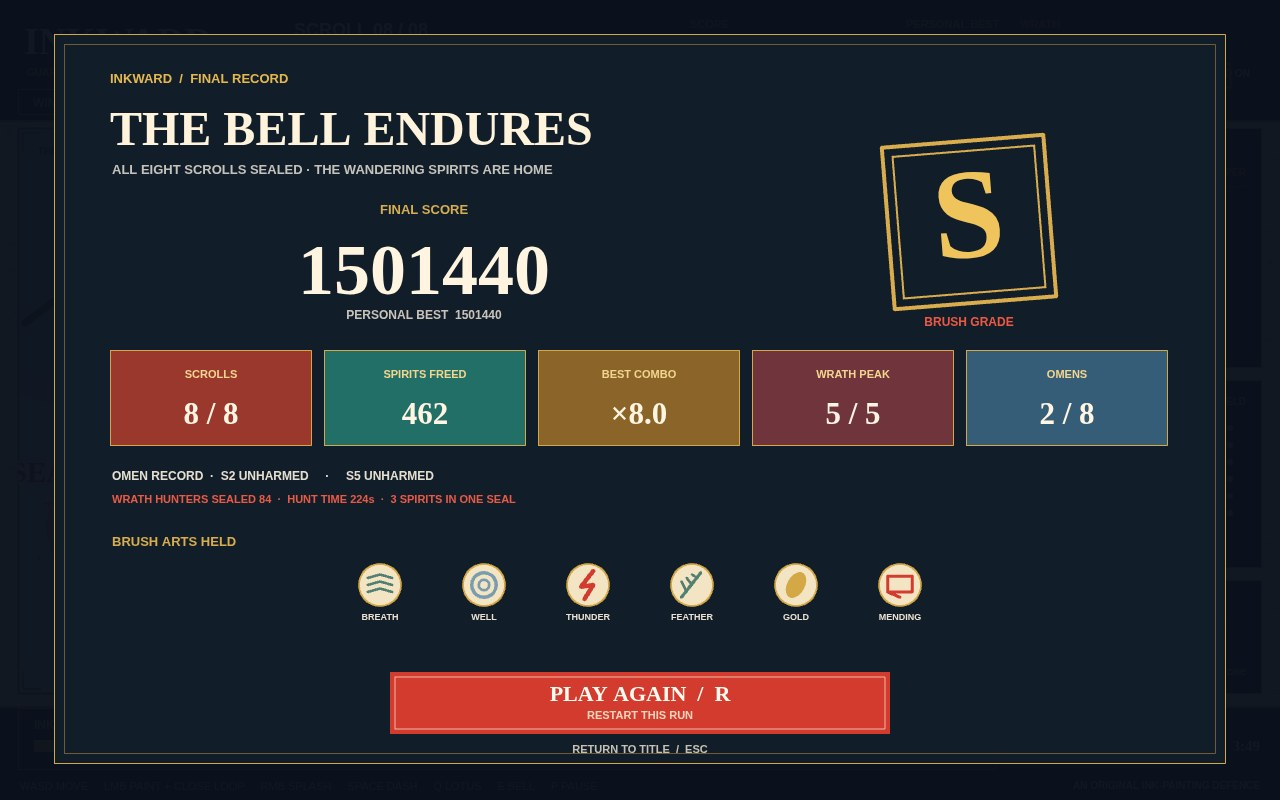
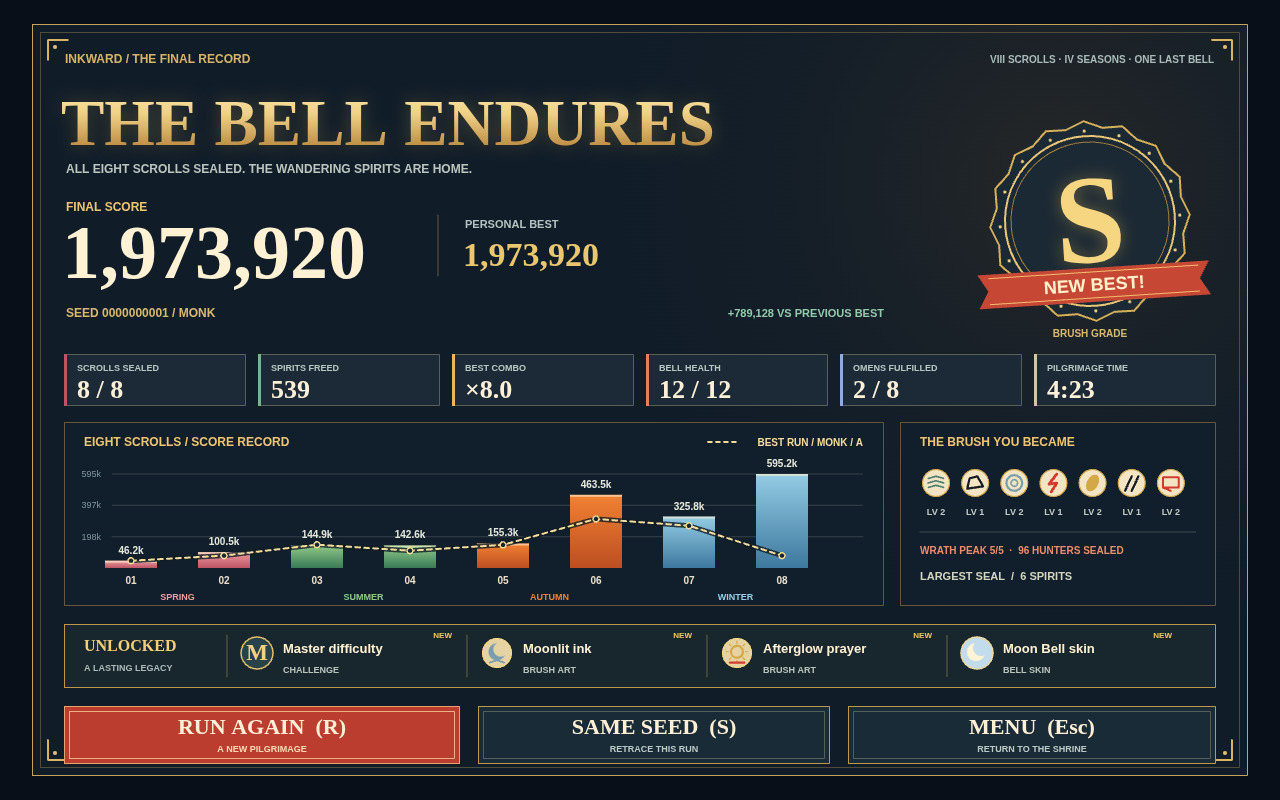
Add cinematic WebGL bloom and grading with exact 2D fallback

diff --git a/game/src/render/post/index.js b/game/src/render/post/index.js
@@ -1,0 +1,122 @@
+import { POST } from './config.js';
+import { VERTEX, EXTRACT, BLUR, COMPOSITE } from './shaders.js';
+import { getScroll } from '../../world/scrolls.js';
+
+// The original canvas stays visible and owns input. The display only covers it
+// after a successful frame, so every failure immediately reveals the 2D path.
+export function createPost(sourceCanvas) {
+  const canvas = document.createElement('canvas');
+  canvas.id = 'cinematic'; canvas.width = sourceCanvas.width; canvas.height = sourceCanvas.height;
+  canvas.setAttribute('aria-hidden', 'true'); canvas.style.display = 'none';
+  sourceCanvas.after(canvas);
+  let gl, resources, available = false, enabled = true, frames = 0;
+  const textures = [], buffers = [], programs = [], shaders = [];
+  const reveal2D = () => {
+    canvas.style.display = 'none';
+    document.documentElement.dataset.renderer = '2d';
+  };
+  function dispose() {
+    if (gl && !gl.isContextLost()) {
+      for (const t of textures) gl.deleteTexture(t);
+      for (const b of buffers) gl.deleteFramebuffer(b);
+      for (const p of programs) gl.deleteProgram(p);
+      for (const s of shaders) gl.deleteShader(s);
+    }
+    // Lost-context handles are invalid after restoration; never delete them
+    // against the restored context, where that would poison initialization.
+    textures.length = buffers.length = programs.length = shaders.length = 0;
+    resources = null; available = false; reveal2D();
+  }
+  function program(fragment) {
+    const p = gl.createProgram(); programs.push(p);
+    for (const [type, code] of [[gl.VERTEX_SHADER, VERTEX], [gl.FRAGMENT_SHADER, fragment]]) {
+      const s = gl.createShader(type); shaders.push(s);
+      gl.shaderSource(s, code); gl.compileShader(s);
+      if (!gl.getShaderParameter(s, gl.COMPILE_STATUS)) throw new Error('Post shader unavailable');
+      gl.attachShader(p, s);
+    }
+    gl.linkProgram(p);
+    if (!gl.getProgramParameter(p, gl.LINK_STATUS)) throw new Error('Post program unavailable');
+    const uniforms = {};
+    for (let i = 0; i < gl.getProgramParameter(p, gl.ACTIVE_UNIFORMS); i++) {
+      const name = gl.getActiveUniform(p, i).name;
+      uniforms[name] = gl.getUniformLocation(p, name);
+    }
+    return { p, uniforms };
+  }
+  function texture(width, height) {
+    const t = gl.createTexture(); textures.push(t); gl.bindTexture(gl.TEXTURE_2D, t);
+    gl.texParameteri(gl.TEXTURE_2D, gl.TEXTURE_MIN_FILTER, gl.LINEAR);
+    gl.texParameteri(gl.TEXTURE_2D, gl.TEXTURE_MAG_FILTER, gl.LINEAR);
+    gl.texParameteri(gl.TEXTURE_2D, gl.TEXTURE_WRAP_S, gl.CLAMP_TO_EDGE);
+    gl.texParameteri(gl.TEXTURE_2D, gl.TEXTURE_WRAP_T, gl.CLAMP_TO_EDGE);
+    gl.texImage2D(gl.TEXTURE_2D, 0, gl.RGBA, width, height, 0, gl.RGBA, gl.UNSIGNED_BYTE, null);
+    return t;
+  }
+  function target(width, height) {
+    const t = texture(width, height), f = gl.createFramebuffer(); buffers.push(f);
+    gl.bindFramebuffer(gl.FRAMEBUFFER, f);
+    gl.framebufferTexture2D(gl.FRAMEBUFFER, gl.COLOR_ATTACHMENT0, gl.TEXTURE_2D, t, 0);
+    if (gl.checkFramebufferStatus(gl.FRAMEBUFFER) !== gl.FRAMEBUFFER_COMPLETE) throw new Error('Post target unavailable');
+    return { t, f };
+  }
+  function initialize() {
+    try {
+      gl = canvas.getContext('webgl2', { alpha: false, antialias: false, depth: false, stencil: false, powerPreference: 'high-performance' });
+      if (!gl) { reveal2D(); return; }
+      gl.disable(gl.DEPTH_TEST); gl.disable(gl.BLEND);
+      const width = Math.max(1, Math.round(canvas.width * POST.bloomScale));
+      const height = Math.max(1, Math.round(canvas.height * POST.bloomScale));
+      resources = { extract: program(EXTRACT), blur: program(BLUR), composite: program(COMPOSITE),
+        source: texture(canvas.width, canvas.height), a: target(width, height), b: target(width, height), width, height };
+      gl.bindFramebuffer(gl.FRAMEBUFFER, null);
+      if (gl.getError() !== gl.NO_ERROR) throw new Error('Post initialization failed');
+      available = true;
+    } catch { dispose(); }
+  }
+  function use(pass, input, framebuffer, width, height) {
+    gl.bindFramebuffer(gl.FRAMEBUFFER, framebuffer); gl.viewport(0, 0, width, height);
+    gl.useProgram(pass.p); gl.activeTexture(gl.TEXTURE0); gl.bindTexture(gl.TEXTURE_2D, input);
+    gl.uniform1i(pass.uniforms.source, 0);
+  }
+  canvas.addEventListener('webglcontextlost', event => { event.preventDefault(); dispose(); });
+  canvas.addEventListener('webglcontextrestored', initialize);
+  initialize();
+  return {
+    get active() { return available && enabled; },
+    get available() { return available; },
+    get frames() { return frames; },
+    toggle() { enabled = !enabled; if (!enabled) reveal2D(); },
+    fit() { canvas.style.width = sourceCanvas.style.width; canvas.style.height = sourceCanvas.style.height; },
+    present(state) {
+      if (!available || !enabled) { reveal2D(); return; }
+      try {
+        if (gl.isContextLost()) { available = false; reveal2D(); return; }
+        const r = resources;
+        gl.activeTexture(gl.TEXTURE0); gl.bindTexture(gl.TEXTURE_2D, r.source);
+        gl.pixelStorei(gl.UNPACK_FLIP_Y_WEBGL, true);
+        gl.texSubImage2D(gl.TEXTURE_2D, 0, 0, 0, gl.RGBA, gl.UNSIGNED_BYTE, sourceCanvas);
+        use(r.extract, r.source, r.a.f, r.width, r.height);
+        gl.uniform2f(r.extract.uniforms.texel, 1 / r.width, 1 / r.height);
+        gl.drawArrays(gl.TRIANGLES, 0, 3);
+        use(r.blur, r.a.t, r.b.f, r.width, r.height);
+        gl.uniform2f(r.blur.uniforms.direction, POST.blurRadius / r.width, 0);
+        gl.drawArrays(gl.TRIANGLES, 0, 3);
+        use(r.blur, r.b.t, r.a.f, r.width, r.height);
+        gl.uniform2f(r.blur.uniforms.direction, 0, POST.blurRadius / r.height);
+        gl.drawArrays(gl.TRIANGLES, 0, 3);
+        use(r.composite, r.source, null, canvas.width, canvas.height);
+        gl.activeTexture(gl.TEXTURE1); gl.bindTexture(gl.TEXTURE_2D, r.a.t);
+        gl.uniform1i(r.composite.uniforms.bloom, 1);
+        gl.uniform2f(r.composite.uniforms.texel, 1 / canvas.width, 1 / canvas.height);
+        gl.uniform3fv(r.composite.uniforms.tint, POST.seasons[getScroll(state).season]);
+        gl.uniform4f(r.composite.uniforms.strengths, POST.bloom, POST.vignette, POST.grain, POST.inkBleed);
+        gl.uniform1f(r.composite.uniforms.grade, POST.grade);
+        gl.drawArrays(gl.TRIANGLES, 0, 3);
+        // Check the first frame and periodically thereafter, without a readback per frame.
+        if (frames % 120 === 0 && gl.getError() !== gl.NO_ERROR) throw new Error('Post rendering failed');
+        frames++; canvas.style.display = 'block'; document.documentElement.dataset.renderer = 'webgl2';
+      } catch { dispose(); }
+    },
+  };
+}

diff --git a/game/src/render/post/shaders.js b/game/src/render/post/shaders.js
@@ -1,0 +1,81 @@
+export const VERTEX = `#version 300 es
+precision highp float;
+out vec2 uv;
+void main() {
+  vec2 p = vec2(float((gl_VertexID << 1) & 2), float(gl_VertexID & 2));
+  uv = p;
+  gl_Position = vec4(p * 2.0 - 1.0, 0.0, 1.0);
+}`;
+
+export const EXTRACT = `#version 300 es
+precision mediump float;
+in vec2 uv;
+out vec4 outColor;
+uniform sampler2D source;
+uniform vec2 texel;
+vec3 bright(vec2 p) {
+  vec3 c = texture(source, p).rgb;
+  float hi = max(c.r, max(c.g, c.b));
+  float lo = min(c.r, min(c.g, c.b));
+  float saturated = smoothstep(0.12, 0.38, hi - lo);
+  float vermilion = smoothstep(0.12, 0.35, c.r - c.g) * step(c.b, c.g + 0.08);
+  float gold = smoothstep(0.1, 0.28, c.g - c.b) * smoothstep(0.55, 0.8, c.r);
+  float mask = max(saturated * smoothstep(0.62, 0.92, hi), max(vermilion, gold) * 0.75);
+  // Leave the broad pale paper alone; only its whitest highlights contribute.
+  mask = max(mask, smoothstep(0.975, 1.0, lo) * 0.12);
+  return c * mask;
+}
+void main() {
+  vec2 d = texel * 0.5;
+  outColor = vec4((bright(uv + d) + bright(uv - d) +
+    bright(uv + vec2(d.x, -d.y)) + bright(uv + vec2(-d.x, d.y))) * 0.25, 1.0);
+}`;
+
+export const BLUR = `#version 300 es
+precision mediump float;
+in vec2 uv;
+out vec4 outColor;
+uniform sampler2D source;
+uniform vec2 direction;
+void main() {
+  vec3 c = texture(source, uv).rgb * 0.227027;
+  c += (texture(source, uv + direction * 1.384615).rgb +
+        texture(source, uv - direction * 1.384615).rgb) * 0.316216;
+  c += (texture(source, uv + direction * 3.230769).rgb +
+        texture(source, uv - direction * 3.230769).rgb) * 0.070270;
+  outColor = vec4(c, 1.0);
+}`;
+
+export const COMPOSITE = `#version 300 es
+precision highp float;
+in vec2 uv;
+out vec4 outColor;
+uniform sampler2D source;
+uniform sampler2D bloom;
+uniform vec2 texel;
+uniform vec3 tint;
+uniform vec4 strengths;
+uniform float grade;
+float luminance(vec3 c) { return dot(c, vec3(0.2126, 0.7152, 0.0722)); }
+float paperGrain(vec2 p) {
+  vec3 q = fract(vec3(p.xyx) * 0.1031);
+  q += dot(q, q.yzx + 33.33);
+  return fract((q.x + q.y) * q.z) - 0.5;
+}
+void main() {
+  vec3 c = texture(source, uv).rgb;
+  float l = luminance(c);
+  vec2 d = texel * 1.25;
+  float neighbours = min(min(luminance(texture(source, uv + vec2(d.x, 0.0)).rgb),
+                             luminance(texture(source, uv - vec2(d.x, 0.0)).rgb)),
+                         min(luminance(texture(source, uv + vec2(0.0, d.y)).rgb),
+                             luminance(texture(source, uv - vec2(0.0, d.y)).rgb)));
+  c *= 1.0 - clamp(l - neighbours, 0.0, 0.6) * strengths.w;
+  c = mix(c, c * tint, grade);
+  vec3 glow = texture(bloom, uv).rgb;
+  c += glow * strengths.x * (1.0 - c * 0.65);
+  vec2 p = (uv - 0.5) * vec2(1.12, 1.0);
+  c *= 1.0 - smoothstep(0.14, 0.57, dot(p, p)) * strengths.y;
+  c += paperGrain(gl_FragCoord.xy) * strengths.z;
+  outColor = vec4(clamp(c, 0.0, 1.0), 1.0);
+}`;

diff --git a/game/src/main.js b/game/src/main.js
@@ -10,6 +10,7 @@ import { chooseRoad } from './world/path.js';
 import { endStroke } from './ink/strokes.js';
 import { createPaper } from './render/paper.js';
 import { renderScene } from './render/scene.js';
+import { createPost } from './render/post/index.js';
 import { START_BUTTON, DIFFICULTY_RECTS, SKIN_BUTTON, SEED_BUTTON } from './screens/title.js';
 import { draftRects } from './screens/draft.js';
 import { ROAD_RECTS, pathChoiceRects } from './screens/path.js';
@@ -20,6 +21,7 @@ import { stageShot } from './shots.js';
 
 const canvas = document.getElementById('game');
 const ctx = canvas.getContext('2d', { alpha: false });
+const post = createPost(canvas);
 const status = document.getElementById('status');
 const audio = createAudio();
 const input = createInput(canvas, audio.unlock);
@@ -35,6 +37,7 @@ let lastTime = performance.now(), accumulator = 0, previousMode = '', previousSe
 function fitCanvas() {
   const scale = Math.min(window.innerWidth / WIDTH, window.innerHeight / HEIGHT);
   canvas.style.width = `${WIDTH * scale}px`; canvas.style.height = `${HEIGHT * scale}px`;
+  post.fit();
 }
 window.addEventListener('resize', fitCanvas); fitCanvas();
 
@@ -50,6 +53,7 @@ function pauseRun() {
 }
 function handleMenus() {
   if (input.pressed.has('KeyM')) audio.toggle();
+  if (input.pressed.has('KeyG')) post.toggle();
   const clicked = rect => input.clicks.some(p => hitRect(p, rect));
   if (state.mode === 'title') {
     for (let i = 0; i < DIFFICULTY_RECTS.length; i++) if (clicked(DIFFICULTY_RECTS[i]) || input.pressed.has(`Digit${i + 1}`)) {
@@ -101,12 +105,13 @@ function frame(now) {
     previousMode = state.mode; previousSeed = state.seed;
   }
   renderScene(ctx, paper, state, drawInput, audio);
+  post.present(state);
+  if (staged) document.documentElement.dataset.shotReady = 'true';
   requestAnimationFrame(frame);
 }
 if (shot) {
   const replay = stageShot(shot, seed); state = replay.state; drawInput = replay.input;
-  document.documentElement.dataset.shotReady = 'true';
 }
 // Read-only live state helps browser verification inspect actual input and simulation outcomes.
-window.inkward = { get state() { return state; }, get input() { return input; }, get audio() { return audio; } };
+window.inkward = { get state() { return state; }, get input() { return input; }, get audio() { return audio; }, get post() { return post; } };
 requestAnimationFrame(frame);

diff --git a/game/index.html b/game/index.html
@@ -8,12 +8,13 @@
 <style>
   html, body { margin: 0; height: 100%; overflow: hidden; background: #e6dcc4; }
   #game { position: absolute; top: 50%; left: 50%; transform: translate(-50%, -50%); display: block; touch-action: none; outline: none; cursor: crosshair; }
+  #cinematic { position: absolute; top: 50%; left: 50%; transform: translate(-50%, -50%); pointer-events: none; }
   /* Read aloud, never shown: the status line screen readers announce. */
   #status { position: absolute; width: 1px; height: 1px; overflow: hidden; clip-path: inset(50%); white-space: nowrap; }
 </style>
 </head>
 <body>
-<canvas id="game" width="1280" height="800" tabindex="0" aria-label="INKWARD. Hold left mouse to paint walls. Draw a closed loop around spirits to seal them. WASD move, Space dash, right mouse splash, Q and E brush arts, P pause, M mute."></canvas>
+<canvas id="game" width="1280" height="800" tabindex="0" aria-label="INKWARD. Hold left mouse to paint walls. Draw a closed loop around spirits to seal them. WASD move, Space dash, right mouse splash, Q and E brush arts, P pause, M mute, G cinematic graphics."></canvas>
 <p id="status" role="status" aria-live="polite"></p>
 <script type="module" src="./src/main.js"></script>
 </body>

diff --git a/game/src/render/post/config.js b/game/src/render/post/config.js
@@ -1,0 +1,16 @@
+// One place to tune the cinematic pass. Bloom runs at quarter resolution.
+export const POST = Object.freeze({
+  bloomScale: 0.25,
+  bloom: 0.24,
+  blurRadius: 1.7,
+  vignette: 0.16,
+  grain: 0.006,
+  inkBleed: 0.075,
+  grade: 0.65,
+  seasons: [
+    [1.025, 1.005, 0.985], // Spring: rose paper.
+    [0.985, 1.015, 1.005], // Summer: jade shade.
+    [1.065, 1.015, 0.935], // Autumn: amber light.
+    [0.945, 0.995, 1.065], // Winter: blue moonlight.
+  ],
+});
